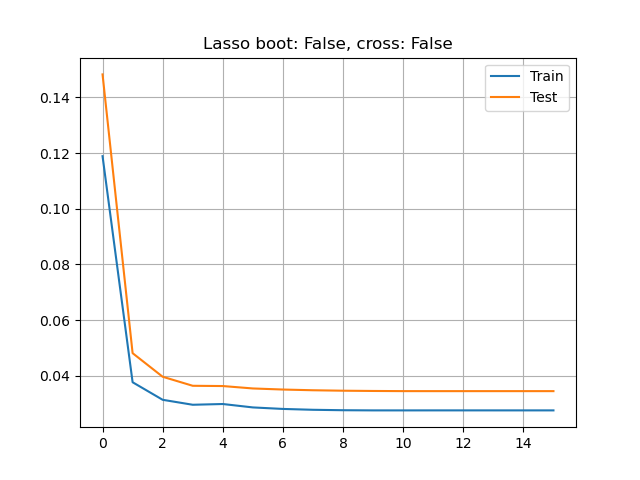
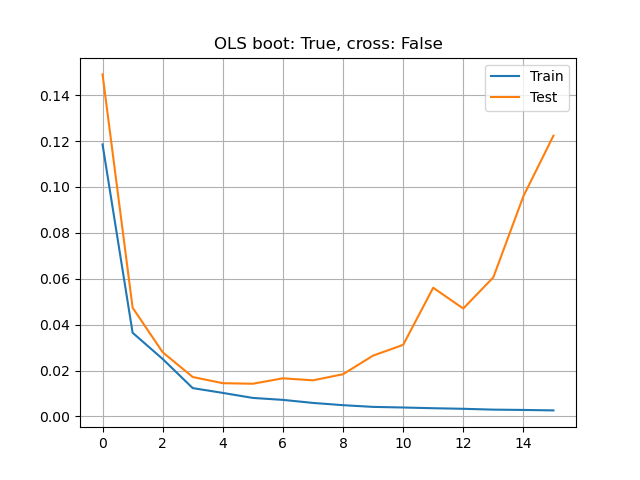
Fix removing first column. Add gridsearch & simplify OLS

diff --git a/PROJECT1/franke_fit_strange.py b/PROJECT1/franke_fit_strange.py
@@ -16,29 +16,11 @@ from sklearn import linear_model
 from sklearn.metrics import mean_squared_error
 import utils
 import sys
+import seaborn as sns
+import pandas as pd
 
 import warnings
 warnings.filterwarnings("ignore")
-
-
-np.random.seed(1102229789)
-fig = plt.figure()
-# Make data.
-Nx = 15
-Ny = 15
-maxdegree = 15
-MSE_train_list = np.zeros(maxdegree+1)
-MSE_test_list = np.zeros(maxdegree+1)
-R2_train_list = np.zeros(maxdegree+1)
-R2_test_list = np.zeros(maxdegree+1)
-beta_matrix = np.zeros( ( (maxdegree+1)**2, maxdegree+1 ) )
-bias = np.zeros(maxdegree+1)
-variance = np.zeros(maxdegree+1)
-error = np.zeros(maxdegree+1)
-#generate x,y data from uniform distribution
-x = np.random.rand(Nx, 1)
-y = np.random.rand(Ny, 1)
-x, y = np.meshgrid(x,y)
 
 
 def scale(X_train, X_test, z_train):
@@ -53,18 +35,13 @@ def scale(X_train, X_test, z_train):
 	return X_train_, X_test_, z_mean_train
 
 def OLS(X_train, X_test, z_train, lamb=0):
-	X_train_, X_test_, z_mean_train = scale(X_train, X_test, z_train)
-	z_train_ = z_train - z_mean_train
-
-	beta_opt = np.linalg.pinv(X_train_.T @ X_train_)@X_train_.T @ z_train_
-	z_tilde_train = X_train_ @ beta_opt + z_mean_train
-	z_tilde_test  = X_test_ @ beta_opt + z_mean_train
-	#z_tilde_train = np.ravel(z_tilde_train)
-	#z_tilde_test= np.ravel(z_tilde_test)
+	beta_opt, z_tilde_train, z_tilde_test = Ridge(X_train, X_test, z_train, lamb = 0)
 	return beta_opt, z_tilde_train, z_tilde_test
 
 def Ridge(X_train, X_test, z_train, lamb):
 	X_train_, X_test_, z_mean_train = scale(X_train, X_test, z_train)
+	X_train_ = X_train_[:, 1:]
+	X_test_ = X_test_[:, 1:]
 	#Subtract mean from z to remove intercept
 	#Find beta opt wtih new equation
 	#Add mean of z to prediction_z
@@ -77,6 +54,15 @@ def Ridge(X_train, X_test, z_train, lamb):
 	#z_tilde_train = np.ravel(z_tilde_train)
 	#z_tilde_test= np.ravel(z_tilde_test)
 
+	return beta_opt, z_tilde_train, z_tilde_test
+
+def Ridge_scikit(X_train, X_test, z_train, lamb):
+	X_train_, X_test_, z_mean_train = scale(X_train, X_test, z_train)
+	clf = linear_model.Ridge(alpha=lamb, fit_intercept=True)
+	clf.fit(X_train_, z_train)
+	z_tilde_train  = clf.predict(X_train_)
+	z_tilde_test = clf.predict(X_test_)
+	beta_opt = clf.coef_
 	return beta_opt, z_tilde_train, z_tilde_test
 
 
@@ -92,10 +78,9 @@ def Lasso(X_train, X_test, z_train, lamb):
 	return beta_opt, z_tilde_train, z_tilde_test
 
 
-def Solver(method, lamb = 0, useBootstrap = False, useCrossval = False):
+def Solver(method, lamb = 0, useBootstrap = False, useCrossval = False, mindegree = 0, maxdegree = 12):
 	#generate target data
-	z = (utils.FrankeFunction(x, y) + 0.1*np.random.randn(Nx,Ny)).reshape(-1,1)
-	#print(z.shape)
+	#z = (utils.FrankeFunction(x, y) + 0.1*np.random.randn(Nx,Ny)).reshape(-1,1)
 
 	#Print info
 	print(f"Running solver with {method.__name__}. Degrees: {maxdegree}.", end = "")
@@ -106,14 +91,14 @@ def Solver(method, lamb = 0, useBootstrap = False, useCrossval = False):
 	print("\n")
 
 	#Check if correct input
-	if method not in [OLS, Ridge, Lasso]:
+	if method not in [OLS, Ridge, Lasso, Ridge_scikit]:
 		sys.exit(f"Error: Method [{method}] is not compatible. Must be in [OLS, Ridge, Lasso]")
 
 	#Make sure Lambda is positive when using Ridge/Lasso
 	if method != OLS and lamb < 0:
 		sys.exit("Error: Lambda must have >=0 value if using Ridge or Lasso")
 
-	for degree in range(0, maxdegree+1):
+	for degree in range(mindegree, maxdegree+1):
 		#print(f"Degree {degree}/{maxdegree}")
 
 		#set up design matrix for a polynomial of given degree
@@ -154,6 +139,7 @@ def Solver(method, lamb = 0, useBootstrap = False, useCrossval = False):
 			variance[degree] = np.mean(np.var(z_pred, axis=1, keepdims=True))
 			error[degree] = np.mean( np.mean( (z_pred-z_test)**2, axis=1, keepdims=True))
 
+
 		elif useCrossval:
 
 			MSE_avg_train = 0
@@ -179,10 +165,9 @@ def Solver(method, lamb = 0, useBootstrap = False, useCrossval = False):
 		else:
 			#find optimal parameters using OLS
 			beta_opt, z_tilde_train, z_tilde_test = method(X_train, X_test, z_train, lamb)
-			beta_matrix[0:(degree+1)*(degree+2)//2, degree ] = beta_opt.ravel()
+			#beta_matrix[1:(degree+1)*(degree+2)//2, degree ] = beta_opt.ravel()
 			#For Lasso get 2 diff values using diff MSE functions.
 			MSE_train = utils.MSE(z_train, z_tilde_train)
-			MSE_train2 = mean_squared_error(z_train, z_tilde_train)
 			MSE_test = utils.MSE(z_test, z_tilde_test)
 			#MSE_test = mean_squared_error(z_test, z_tilde_test)
 			R2_train_list[degree]  = utils.R2(z_train, z_tilde_train)
@@ -192,126 +177,71 @@ def Solver(method, lamb = 0, useBootstrap = False, useCrossval = False):
 		MSE_train_list[degree]  = MSE_train
 		MSE_test_list[degree]  = MSE_test
 
+	degrees_list = np.arange(maxdegree+1)
 	#Basic plot of MSE scores for train and test.
+	"""
 	plt.title(f"{method.__name__} boot: {useBootstrap}, cross: {useCrossval}")
-	plt.plot(np.arange(maxdegree+1), MSE_train_list, label = "Train")
-	plt.plot(np.arange(maxdegree+1), MSE_test_list, label = "Test")
+	plt.plot(degrees_list, MSE_train_list[mindegree:], label = "Train")
+	plt.plot(degrees_list, MSE_test_list[mindegree:], label = "Test")
 	plt.legend()
 	plt.grid(True)
-
-	"""
-	plt.figure(2)
-	plt.plot(np.arange(maxdegree+1), R2_train_list, label = "Train")
-	plt.plot(np.arange(maxdegree+1), R2_test_list, label = "Test")
-	plt.legend()
-	plt.show()
 	"""
 
+	return degrees_list, MSE_train_list, MSE_test_list, bias, variance
 
+"""
 #Solver(OLS, useBootstrap=False, useCrossval=False, useScaling = False)
 plt.figure(1)
-Solver(Lasso, useBootstrap=False, useCrossval=False, lamb=0.01)
-plt.savefig("MSE_ridge.png")
+Solver(Ridge, useBootstrap=False, useCrossval=False, lamb=0.01, maxdegree = maxdeg)
+plt.figure(2)
+Solver(Ridge_scikit, useBootstrap=False, useCrossval=False, lamb=0.01, maxdegree = maxdeg)
 plt.show()
+"""
+
+
+np.random.seed(34632)
+fig = plt.figure()
+# Make data.
+Nx = 15
+Ny = 15
+maxdeg = 15
+MSE_train_list = np.zeros(maxdeg+1)
+MSE_test_list = np.zeros(maxdeg+1)
+R2_train_list = np.zeros(maxdeg+1)
+R2_test_list = np.zeros(maxdeg+1)
+beta_matrix = np.zeros( ( (maxdeg+1)**2, maxdeg+1 ) )
+bias = np.zeros(maxdeg+1)
+variance = np.zeros(maxdeg+1)
+error = np.zeros(maxdeg+1)
+#generate x,y data from uniform distribution
+x = np.random.rand(Nx, 1)
+y = np.random.rand(Ny, 1)
+x, y = np.meshgrid(x,y)
+z = (utils.FrankeFunction(x, y) + 0.1*np.random.randn(Nx,Ny)).reshape(-1,1)
+
+
+lambda_vals = np.logspace(-6, 0, 7)
+mindeg = 3
+MSE_2d = np.zeros(shape=(maxdeg+1-mindeg ,len(lambda_vals)))
+
+#Fill array with MSE values. x-axis lambda, y-axis degree
+for i in range(len(lambda_vals)):
+	degrees_list, MSE_train_list, MSE_test_list, _, _ = Solver(Ridge, useBootstrap=False, useCrossval=False, lamb=lambda_vals[i], mindegree = mindeg, maxdegree = maxdeg)
+	for j in range(maxdeg-mindeg+1):
+		MSE_2d[j,i] = MSE_test_list[mindeg+j] #fix indexing cause of length
+
+df= pd.DataFrame(MSE_2d, columns= lambda_vals, index = np.arange(mindeg, maxdeg+1))
+fig = sns.heatmap(df, cbar_kws={'label': 'MSE'})
+fig.set(xlabel="Lambda", ylabel="Degree of complexity")
+plt.show()
+
+
+#make grid search: lamba: 1e-5 -> 1,  degree: 3->7
+# seabon package
+# sns.heatmap(mat)
+# mat -> mse for every lambda and degree [2d array]
+
 
 
 #Solver(OLS, useBootstrap=False, useCrossval=False)
 #Solver(OLS, useBootstrap=True, useCrossval=False)
-
-
-
-"""
-	if useBootstrap:
-		plot(bias)
-		plot(variance)
-"""
-
-"""
-	# # Plot the surface.
-	# surf = ax.scatter(x, y, z, cmap=cm.coolwarm, linewidth=0, antialiased=False)
-	# # Customize the z axis.
-	# ax.set_zlim(-0.10, 1.40)
-	# ax.zaxis.set_major_locator(LinearLocator(10))
-	# ax.zaxis.set_major_formatter(FormatStrFormatter('%.02f'))
-	# # Add a color bar which maps values to colors.
-	# fig.colorbar(surf, shrink=0.5, aspect=5)
-	# plt.show()
-	#print(beta_matrix)
-	fig, axs = plt.subplots(1,2)
-	degrees_x = np.arange(maxdegree+1)
-	axs[0].plot(degrees_x, MSE_train_list, label="train")
-	axs[0].plot(degrees_x, MSE_test_list, label="test")
-	axs[0].set_ylabel("MSE")
-
-	axs[1].plot(degrees_x, R2_train_list,  label="train")
-	axs[1].plot(degrees_x, R2_test_list,  label="test")
-	axs[1].set_ylabel("R2")
-
-	for ii in range(1):
-		axs[ii].set_xlabel("degree of polynomial")
-		axs[ii].grid(visible=True)
-		axs[ii].legend()
-
-	#plt.show()
-
-	# fig_beta, axs_beta = plt.subplots(1,1)
-
-	# for jj in range(6):
-	# 	axs_beta.plot( np.arange(maxdegree+1), beta_matrix[jj,:], label=f"$beta {jj}$")
-
-	# axs_beta.grid(visible=True)
-	# axs_beta.legend()
-
-
-	fig_bvt, axs_bvt = plt.subplots(1,1)
-
-	axs_bvt.plot(np.arange(maxdegree+1), error, label='error')
-	axs_bvt.plot(np.arange(maxdegree+1), bias, label='bias')
-	axs_bvt.plot(np.arange(maxdegree+1), variance, label='variance')
-	axs_bvt.legend()
-	plt.show()
-"""
-
-
-"""
-def bootstrap:
-	DONE
-
-def crossval:
-	TO DO
-
-def OLS():
-	DONE
-
-def Lasso
-	TO DO
-
-def Ridge
-	TO DO
-
-
-methods avialble = OLS, Ridge, Lasso
-
-solver(Method):
-	if bootstrap:
-		method(data)
-
-	elif crossval:
-		method(data)
-
-
-plot(Beta values as you increase degree) #just for OLS without resampling
-plot(R2_degrees) #just for OLS without resampling
-
-plot(MSE_degrees) # For all 3
-plot(bias, variance) # All 3 methods, bootstrapped
-
-MAIN FILE:
-
-all variables
-func = asdasdad
-x = 0 -> 1000
-y = 0 ->1000
-main(OLS, bootstrap=True):
-
-"""

diff --git a/PROJECT1/utils.py b/PROJECT1/utils.py
@@ -9,6 +9,8 @@ def MSE(z, ztilde):
     return (1/len(z))*np.sum((z-ztilde)**2)
 
 def R2(z,ztilde):
+    z = z.ravel()
+    ztilde = ztilde.ravel()
     return 1- (MSE(z,ztilde))/np.var(z)
 
 def FrankeFunction(x,y):
